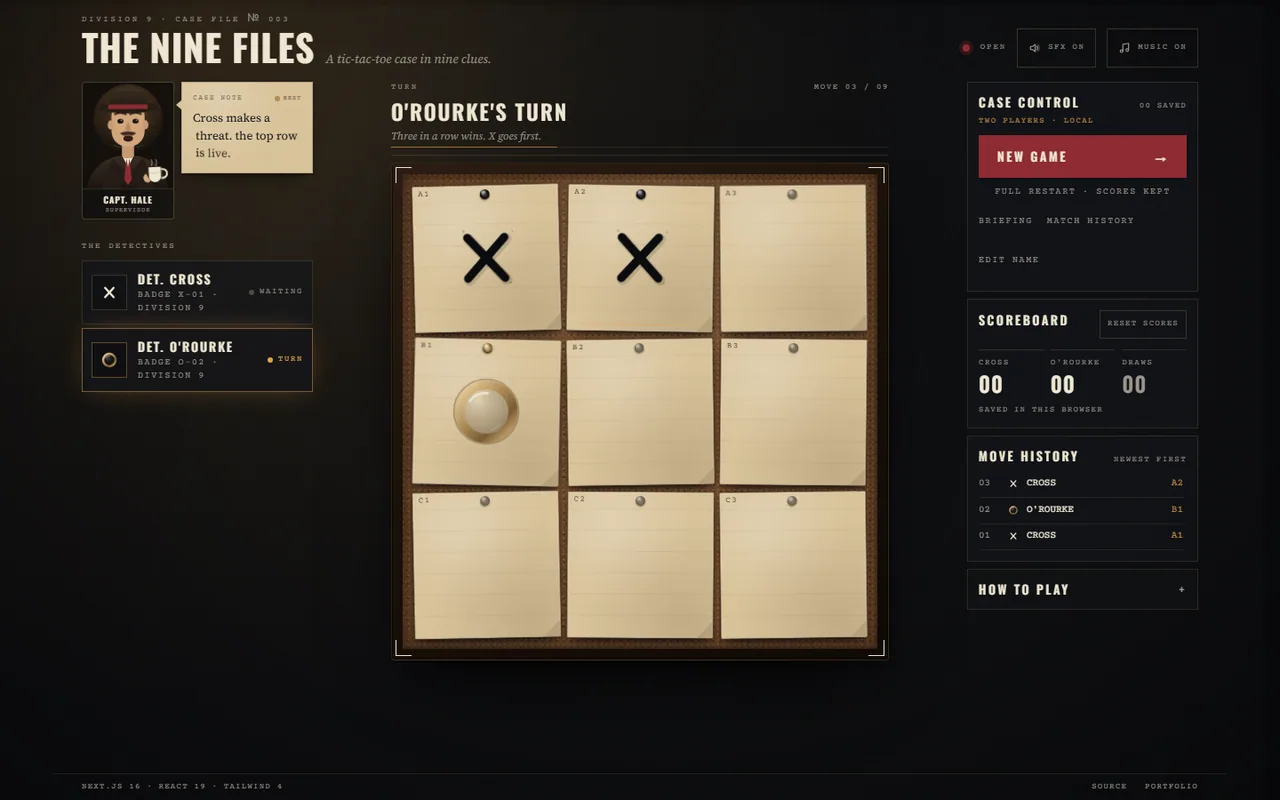
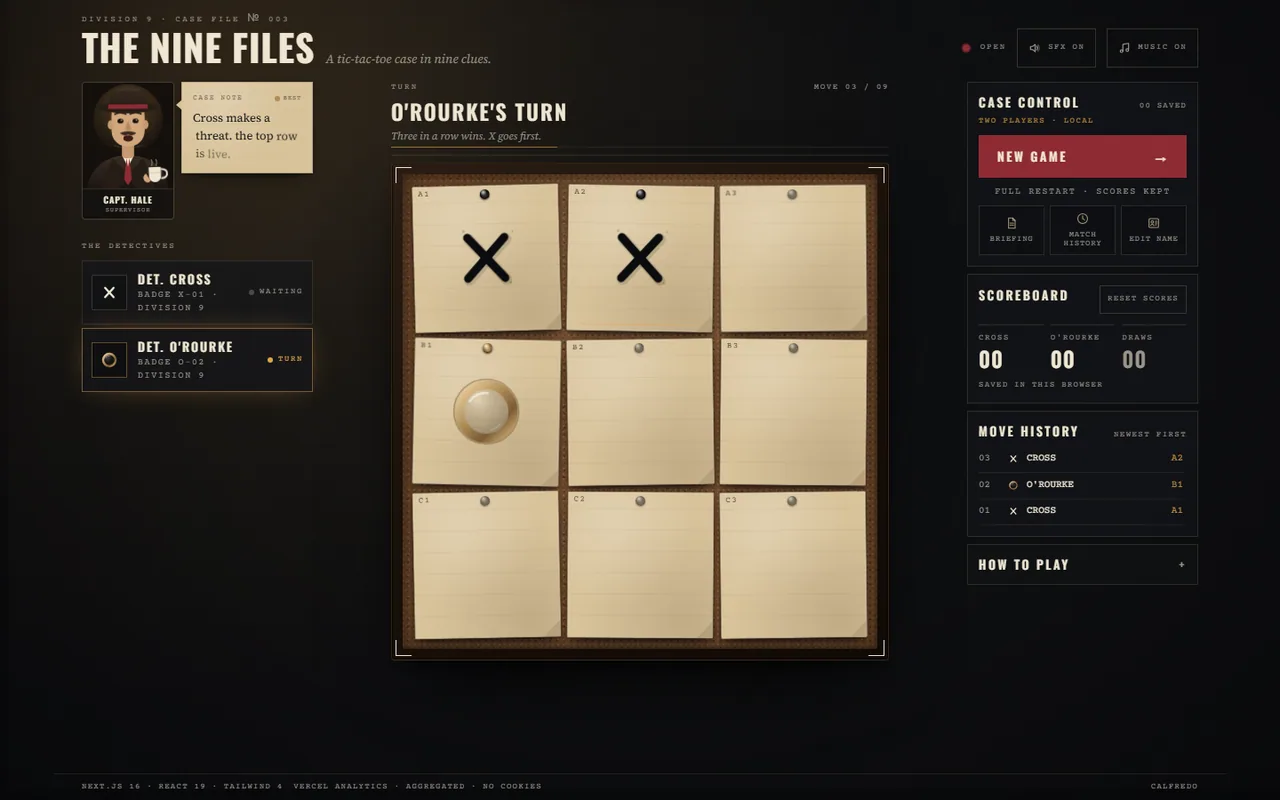
Sign the footer as CALFREDO and refresh screenshots
Claim: Replace the two footer links with one portfolio signature and update the README screenshots to show the current interface.

Proved: npm run verify passed (58 unit); Playwright passed 30/30; design detector returned no findings; screenshot review covered desktop and mobile.

Rollback: git revert <commit-sha> — UI, documentation, and screenshot changes only; no data migration.

VELLITAXIS | mode: QUALITY | role: RELEASE MANAGER | rung: IRREVERSIBLE-SHARED
Task: TASK-0031
Mode: QUALITY
Role: RELEASE MANAGER (DEVOPS-OPERATIONS)
Rung: IRREVERSIBLE-SHARED
Evidence: verify 58 unit | Playwright 30/30 | detector clean
Sweep: secretsweep -Depth staged CLEAN (0 findings)

diff --git a/tests/e2e/quality.spec.ts b/tests/e2e/quality.spec.ts
@@ -32,6 +32,14 @@ test("axe finds no violations on the opening screen", async ({ page }) => {
   await expect(
     page.getByText("VERCEL ANALYTICS · AGGREGATED · NO COOKIES"),
   ).toBeVisible();
+  const footer = page.locator("footer");
+  await expect(footer.getByRole("link")).toHaveCount(1);
+  await expect(footer.getByRole("link", { name: "CALFREDO" })).toHaveAttribute(
+    "href",
+    "https://calfredo.is-pinoy.dev",
+  );
+  await expect(footer).not.toContainText("SOURCE");
+  await expect(footer).not.toContainText("PORTFOLIO");
   const results = await new AxeBuilder({ page }).analyze();
   expect(summarize(results.violations)).toEqual([]);
 });

diff --git a/components/case-file.tsx b/components/case-file.tsx
@@ -424,20 +424,12 @@ export function CaseFile() {
           </p>
           <p className="flex gap-5">
             <a
-              href="https://github.com/Calfredo23/the-nine-files"
-              target="_blank"
-              rel="noreferrer"
-              className="transition hover:text-paper"
-            >
-              SOURCE
-            </a>
-            <a
               href="https://calfredo.is-pinoy.dev"
               target="_blank"
               rel="noreferrer"
               className="transition hover:text-paper"
             >
-              PORTFOLIO
+              CALFREDO
             </a>
           </p>
         </footer>

diff --git a/docs/velitaxis/LOG.md b/docs/velitaxis/LOG.md
@@ -229,3 +229,23 @@
   reported 8 moderate findings in the existing development toolchain; no forced fix ran.
 - Next: staged secret sweep, push approved integration, verify Vercel route and dashboard
   events. Vercel's documented Hobby quota is 50,000 events/month.
+
+## 2026-11-15 (q) — analytics deployed and live
+
+- Commit `ef4f0ff` pushed after a staged secret sweep with 0 findings; GitHub CI run
+  `43699897554` passed both jobs.
+- Production returned HTTP 200 with no browser console errors. Browser network capture
+  observed the Vercel Analytics `POST /<project-id>/view` returning HTTP 200.
+- Dashboard activation/plan was owner-reported as Hobby; the event request verifies live
+  collection. No cookies or custom events are used by the app.
+- Next: owner submits the application form. This post-deploy state update is local and
+  would require separate authorization to push.
+
+## 2026-11-15 (r) — CALFREDO footer and final screenshots
+
+- Replaced the two footer links with a single **CALFREDO** portfolio signature.
+- Re-ran Playwright screenshot capture and regenerated the README's WebP images; updated
+  README's desktop image caption to call out Case Control and the signature.
+- Verification: `npm run verify` passed (58 unit); Playwright passed 30/30, including
+  footer destination and no-scroll checks. The local production build passed.
+- Changes are local and unpushed. Next: owner authorizes final push, then submit the form.

diff --git a/docs/velitaxis/NEXT-TASK.md b/docs/velitaxis/NEXT-TASK.md
@@ -16,16 +16,16 @@ SUpost / CapM test on a live Vercel URL, and that doubles as a portfolio piece.
 ## Status
 
 Vercel production is live at `https://the-nine-files.vercel.app`. Repo is public at
-`https://github.com/Calfredo23/the-nine-files`. Commit `507044e` is pushed to `main`;
-GitHub CI passes, and live smoke verified the Case Control icon rail. README, reviewer
-notes, demo script, and screenshots are updated. Vercel Analytics is integrated for
-production; owner reports Web Analytics enabled on Hobby. Live event reporting remains
-unverified until after deployment.
+`https://github.com/Calfredo23/the-nine-files`. Commit `ef4f0ff` is pushed to `main`;
+GitHub CI passes, and live smoke verified the UI and an Analytics `POST /view` returning
+HTTP 200. Owner reports Web Analytics enabled on Hobby. README, reviewer notes, demo
+script, and screenshots are updated. Footer and screenshot refresh are verified locally
+but not pushed yet.
 
 ## Next action
 
-1. Verify live Analytics routes and dashboard events after the deployment.
-2. Submit the form with the live URL, screenshots, and optional demo.
+1. Push the footer/screenshots polish, smoke the live page, then submit the form with the
+   live URL, screenshots, and optional demo.
 
 ## Acceptance criteria
 

diff --git a/docs/velitaxis/PROJECT-MEMORY.md b/docs/velitaxis/PROJECT-MEMORY.md
@@ -40,8 +40,10 @@ imperfect minimax opponent, with an X/O side choice and a coin toss.
 
 ## Current state
 
-Solo mode, coin toss, full-restart NEW GAME, and the Case Control icon rail are live.
+Solo mode, coin toss, full-restart NEW GAME, the Case Control icon rail, and production
+analytics are live. Commit `ef4f0ff` is pushed to `main`; CI passes.
 Vercel Analytics is integrated for production only; local/preview builds avoid the Vercel
-endpoint. Owner reports Web Analytics enabled on Hobby; live event reporting has not yet
-been independently verified. Remaining: smoke the analytics endpoint/dashboard, then
-submit the form.
+endpoint. Owner reported Hobby and dashboard activation; a live Analytics `POST /view`
+returned HTTP 200. Latest local polish replaces SOURCE / PORTFOLIO with CALFREDO and
+refreshes all README screenshots; 58 unit and 30 e2e pass. This final polish is unpushed.
+Remaining: push final assets, then submit the application form (owner action).

diff --git a/README.md b/README.md
@@ -84,9 +84,9 @@ The House is not unbeatable. It plays the best move most of the time, with a del
 |---|---|
 | ![Post-match verdict](docs/screenshots/desktop-post-match.webp) | ![Match history](docs/screenshots/desktop-history.webp) |
 
-| Desktop board | Tablet |
+| Desktop board and Case Control | Tablet |
 |---|---|
-| ![Desktop board](docs/screenshots/desktop-board.webp) | ![Tablet mid-game](docs/screenshots/tablet-midgame.webp) |
+| ![Desktop board with Case Control tools and CALFREDO footer](docs/screenshots/desktop-board.webp) | ![Tablet mid-game](docs/screenshots/tablet-midgame.webp) |
 
 | Mobile | Mobile win |
 |---|---|
